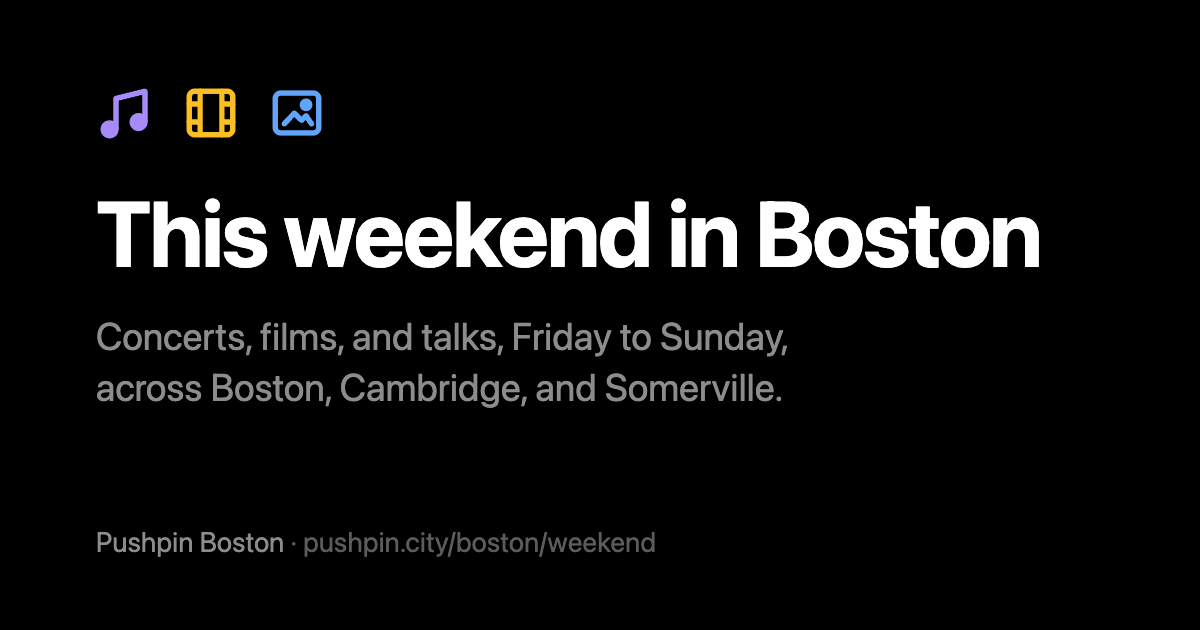
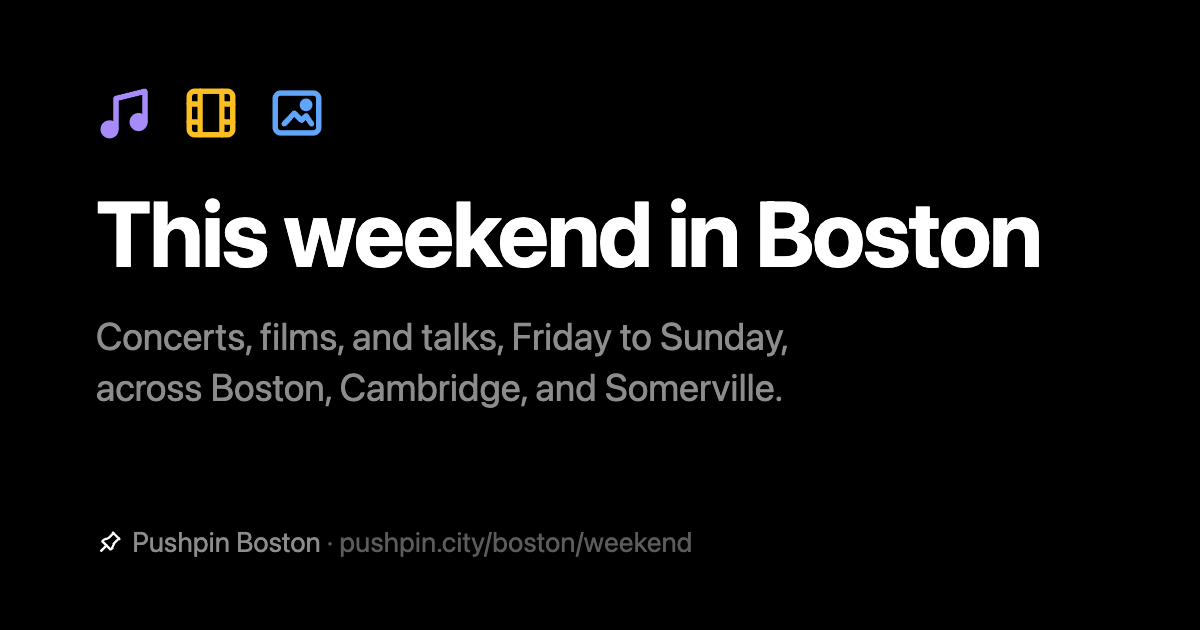
The white pin on the share cards, before the site's name
The home card's heading and the others' last line, as in the header. The pages link the
cards with ?pin, so apps that kept the old ones fetch these.

Changed region(s): [[0.0617, 0.8444, 0.5858, 0.8746]]

diff --git a/tests/test_events.py b/tests/test_events.py
@@ -566,8 +566,8 @@ class Page(unittest.TestCase):
         self.assertIn(f'<a data-show="all" href="{R}" aria-current="page">All</a>', home)
         self.assertIn('data-current="film"', film)
         self.assertIn(f'<link rel="canonical" href="{build.PUBLIC_URL}film/">', film)
-        self.assertIn(f'<meta property="og:image" content="{build.PUBLIC_URL}share/film.png">', film)
-        self.assertIn(f'<meta property="og:image" content="{build.PUBLIC_URL}share/home.png">', home)
+        self.assertIn(f'<meta property="og:image" content="{build.PUBLIC_URL}share/film.png?pin">', film)
+        self.assertIn(f'<meta property="og:image" content="{build.PUBLIC_URL}share/home.png?pin">', home)
         for card in ("home", "music", "film", "talks"):
             self.assertTrue((build.ROOT / "share" / f"{card}.png").exists(), f"share/{card}.png")
         self.assertIn(f"<title>{build.PUBLIC_PAGES['film'][1]}</title>", film)
@@ -602,7 +602,7 @@ class Page(unittest.TestCase):
         self.assertIn("Friday, September 18 to Sunday, September 20", page)
         self.assertIn(f'<link rel="canonical" href="{build.PUBLIC_URL}weekend/">', page)
         self.assertIn('<nav class="filter" aria-label="Show" data-here data-one-page><button', page)
-        self.assertIn(f'<meta property="og:image" content="{build.PUBLIC_URL}share/weekend.png">', page)
+        self.assertIn(f'<meta property="og:image" content="{build.PUBLIC_URL}share/weekend.png?pin">', page)
         self.assertIn(f'<a href="{R}about.html" aria-current="page">About</a>', build.render_about([venue], built))
         self.assertIn(f'<a href="{R}weekend/" aria-current="page">This weekend</a>', page)
         self.assertIn(f"<loc>{build.PUBLIC_URL}weekend/</loc>", build.render_sitemap(built))
@@ -612,7 +612,7 @@ class Page(unittest.TestCase):
         self.assertIn("Next weekend around Boston, Cambridge, and Somerville: Friday, September 25", following)
         self.assertIn(f'<a href="{R}weekend/">← This weekend, Sep 18–20</a>', following)
         self.assertIn(f'<link rel="canonical" href="{build.PUBLIC_URL}weekend/next/">', following)
-        self.assertIn(f'<meta property="og:image" content="{build.PUBLIC_URL}share/weekend.png">', following)
+        self.assertIn(f'<meta property="og:image" content="{build.PUBLIC_URL}share/weekend.png?pin">', following)
         self.assertIn(f"<loc>{build.PUBLIC_URL}weekend/next/</loc>", build.render_sitemap(built))
 
     def test_tonight_page(self):
@@ -628,7 +628,7 @@ class Page(unittest.TestCase):
         self.assertIn('<nav class="filter" aria-label="Show" data-here data-one-page data-today><button', page)
         self.assertIn(f"<title>{build.PUBLIC_TONIGHT[1]}</title>", page)
         self.assertIn(f'<link rel="canonical" href="{build.PUBLIC_URL}tonight/">', page)
-        self.assertIn(f'<meta property="og:image" content="{build.PUBLIC_URL}share/tonight.png">', page)
+        self.assertIn(f'<meta property="og:image" content="{build.PUBLIC_URL}share/tonight.png?pin">', page)
         self.assertIn(f'<a href="{R}tonight/" aria-current="page">Tonight</a>', page)
         self.assertIn(f"<loc>{build.PUBLIC_URL}tonight/</loc>", build.render_sitemap(built))
 

diff --git a/events/share_cards.py b/events/share_cards.py
@@ -35,7 +35,10 @@ def card(heading, line, kinds, path):
         for kind in kinds
     )
     size = 92 if len(heading) <= 22 else 80  # A longer heading a little smaller, to keep it on one line.
-    site = "" if heading == build.PUBLIC_NAME else f"<span>{html.escape(build.PUBLIC_NAME)}</span> · "
+    # The site's name with its pin before it, as in the header: the home card's heading, the others' last line.
+    home = heading == build.PUBLIC_NAME
+    title = f"{build.PIN_MARK}{html.escape(heading)}" if home else html.escape(heading)
+    site = "" if home else f"<span>{build.PIN_MARK}{html.escape(build.PUBLIC_NAME)}</span> · "
     address = build.PUBLIC_URL.removeprefix("https://").rstrip("/") + ("/" + path.rstrip("/") if path else "")
     return f"""<!doctype html><meta charset="utf-8"><style>
   html, body {{ margin: 0; width: 1200px; height: 630px; background: #000; }}
@@ -47,9 +50,11 @@ def card(heading, line, kinds, path):
   p {{ margin: 30px 0 0; max-width: 940px; color: #8c8c8c; font-size: 38px; line-height: 1.35; text-wrap: balance; }}
   footer {{ margin-top: auto; color: #5c5c5c; font-size: 28px; }}
   footer span {{ color: #8c8c8c; }}
+  .pin {{ width: .9em; height: .9em; margin-right: .2em; vertical-align: -.1em; color: #fff; }}
+  footer .pin {{ width: 1em; height: 1em; margin-right: .3em; vertical-align: -.15em; }}
 </style>
 <div class="icons">{icons}</div>
-<h1>{html.escape(heading)}</h1>
+<h1>{title}</h1>
 <p>{html.escape(line)}</p>
 <footer>{site}{html.escape(address)}</footer>
 """

diff --git a/events/build.py b/events/build.py
@@ -1370,7 +1370,8 @@ def public_page(path, title, body, built_at=None, description=PUBLIC_DESCRIPTION
         f'<meta property="og:description" content="{html.escape(description)}">',
         f'<meta property="og:url" content="{address}">',
         # Its card (events/share, made by share_cards.py): a kind's page its own, the rest the site's.
-        f'<meta property="og:image" content="{PUBLIC_URL}share/{path.split("/")[0] if path.endswith("/") else "home"}.png">',
+        # ?pin: apps keep a card they've seen, however long it's been replaced, until its address changes.
+        f'<meta property="og:image" content="{PUBLIC_URL}share/{path.split("/")[0] if path.endswith("/") else "home"}.png?pin">',
         '<meta property="og:image:width" content="1200">',
         '<meta property="og:image:height" content="630">',
         f'<meta property="og:image:alt" content="{html.escape(PUBLIC_NAME)}: {html.escape(PUBLIC_TAGLINE)}">',
